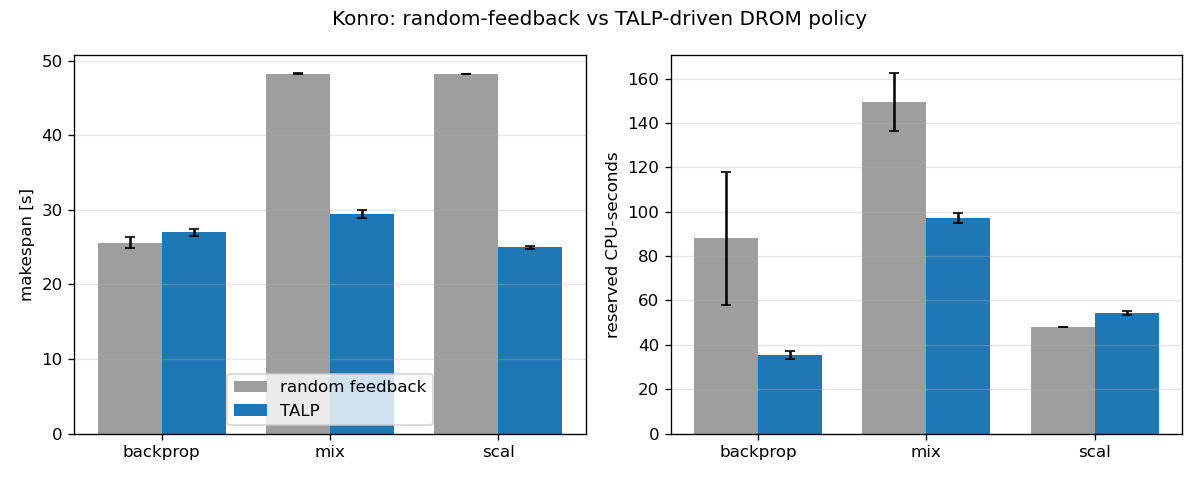
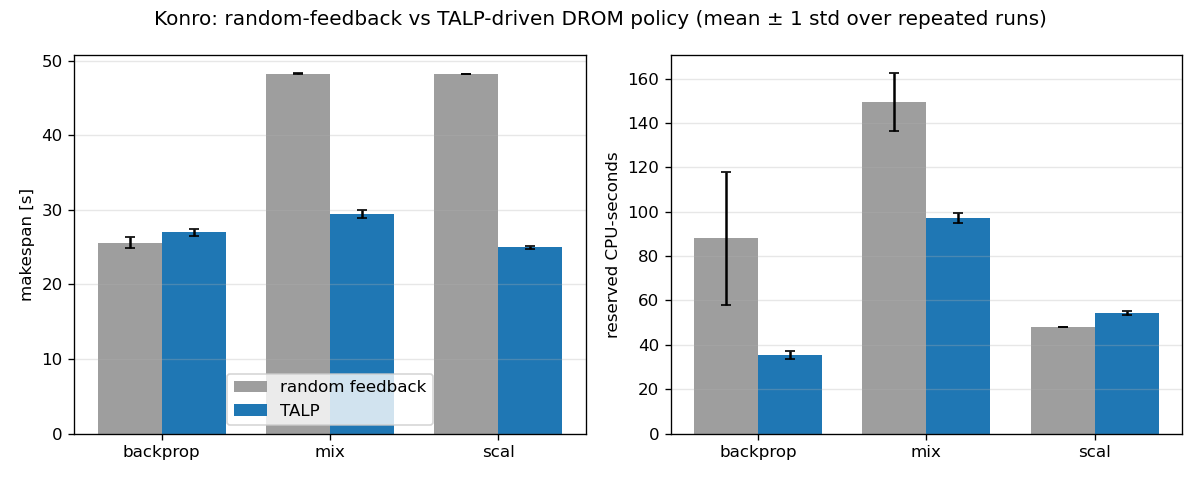
Small fixes

Changed region(s): [[0.1233, 0.0, 0.8633, 0.0625]]

diff --git a/experiments/aggregate.py b/experiments/aggregate.py
@@ -89,7 +89,8 @@ def main(results):
         ax.set_ylabel(label)
         ax.grid(axis="y", alpha=0.3)
     axes[0].legend()
-    fig.suptitle("Konro: random-feedback vs TALP-driven DROM policy")
+    fig.suptitle("Konro: random-feedback vs TALP-driven DROM policy "
+                 "(mean ± 1 std over repeated runs)")
     fig.tight_layout()
     out = os.path.join(results, "comparison.png")
     fig.savefig(out, dpi=120)
